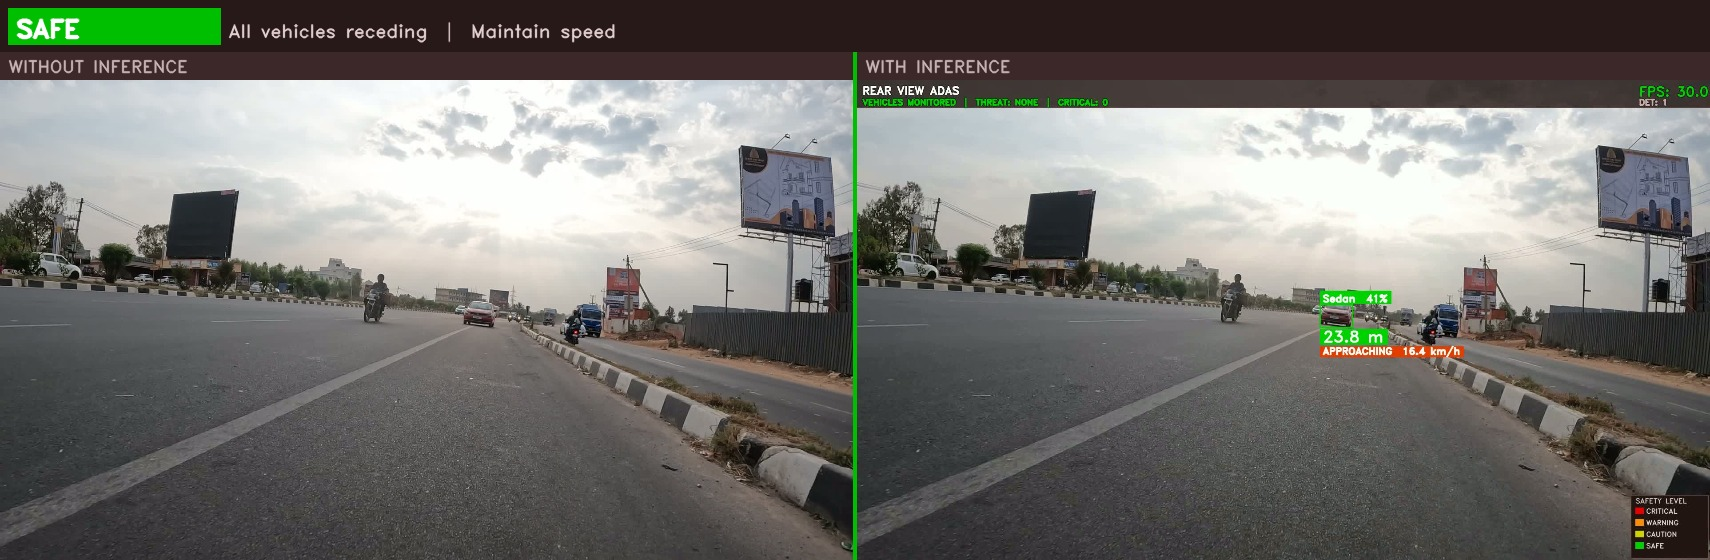
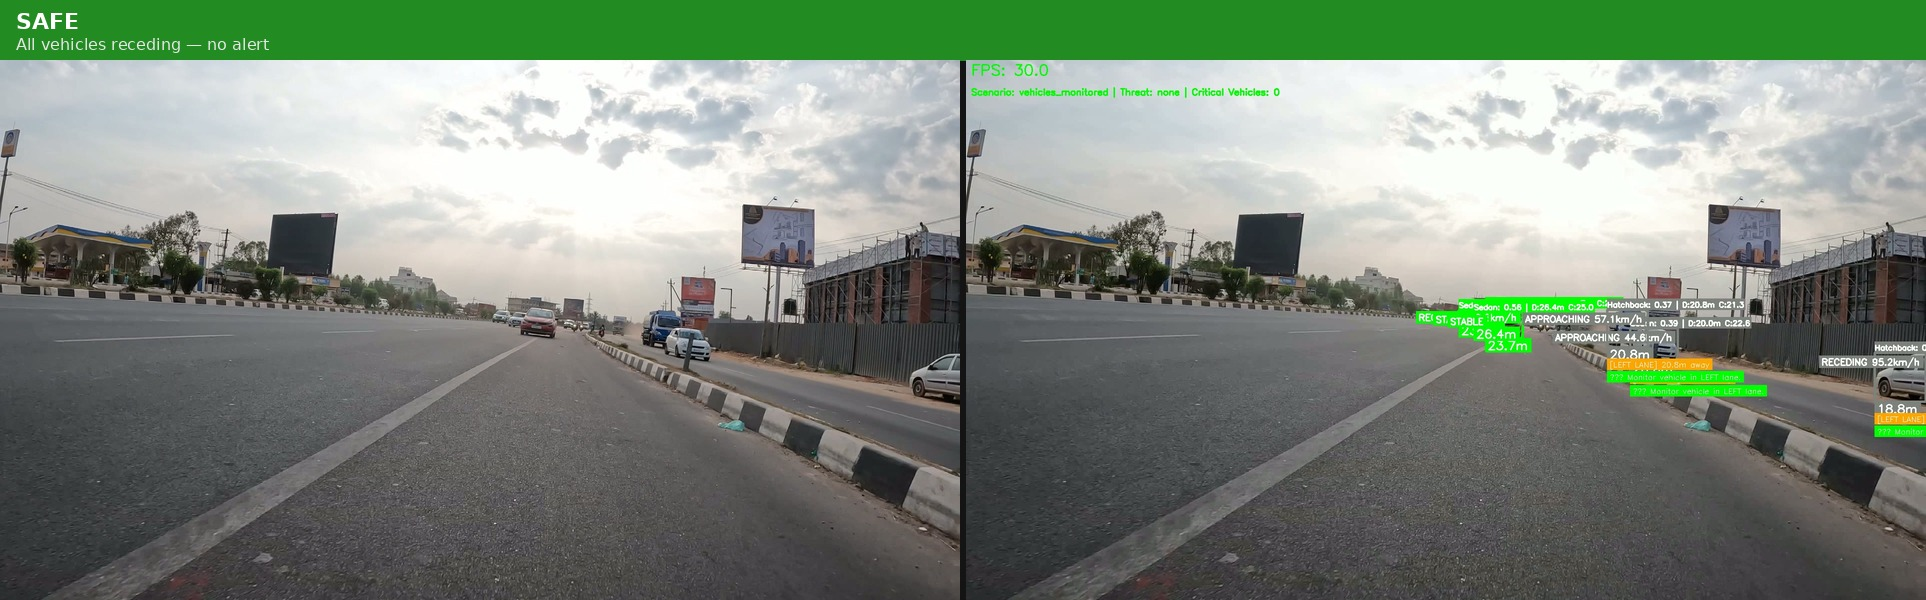
Results: refresh all result images from relative_speed_50.mp4 with side-by-side comparisons
Replace 5 old single-panel result images with 6 new side-by-side comparison images
(WITHOUT INFERENCE left | WITH INFERENCE right) extracted directly from the processed
video. Adds two new scenarios: Bus overtaking in adjacent lane (BE AWARE) and dense
traffic with Two-wheelers at sub-10 m (CRITICAL). README Results section rewritten
with accurate scene descriptions, corrected run statistics, and updated image refs.

Scenes covered:
  - SAFE: all vehicles receding, no alert
  - WARNING: multiple Sedans approaching, DRAC active
  - MULTI-VEHICLE: 6 simultaneous tracks across 3 lanes
  - BE AWARE: KSRTC Bus at 13.3 m in adjacent lane (overtaking suppressed)
  - CRITICAL: Sedan collision imminent, lane-change instruction
  - CRITICAL: Dense traffic, Two-wheelers at 9.9 m and 10.1 m

diff --git a/README.md b/README.md
@@ -37,43 +37,50 @@ Safety alert TPR: **93.3%** | FPR: **6.7%** (lane-aware filtering reduces FPR 2.
 
 ## Results
 
-Each panel shows **Without Inference** (raw camera feed) vs **With Inference** (full ADAS overlay) side by side.  
-Dataset: `relative_speed_50.mp4` — Indian mixed-traffic highway, 30 FPS, RTX A6000.
+Each panel shows **Without Inference** (raw camera feed, left) vs **With Inference** (full ADAS overlay, right) side by side.  
+Source: `relative_speed_50.mp4` — Indian mixed-traffic highway, 1920×1080, 30 FPS, processed on RTX A6000.
 
 ---
 
-### CRITICAL — LCV at 10.8 m, TTC = 0.27 s
-LCV rapidly closing in the same lane. Full-width red alert banner at bottom, per-track emergency brake instruction, corner tick marks on bounding box.
+### SAFE — All vehicles receding, no alert
+Sedans and Hatchbacks detected across lanes. All bounding boxes are green, motion state shows STABLE / RECEDING, no alert banner triggered. System correctly suppresses adjacent-lane vehicles (orange badges = monitor only).
 
-![Critical](Documents/results/compare_critical.jpg)
+![Safe](Documents/results/compare_safe.jpg)
 
 ---
 
-### WARNING — Hatchback approaching at 23 km/h
-Vehicle in center lane approaching with decreasing gap. Orange bounding box, distance badge, TTC and DRAC overlaid, deceleration instruction.
+### WARNING — Vehicles approaching, high deceleration required
+Multiple Sedans approaching in the centre lane. Orange bounding boxes active, WARNING badge with high-deceleration DRAC annotation visible. Per-track distance badges and lane assignment shown. Rider instructed to speed up or prepare to change lane.
 
 ![Warning](Documents/results/compare_warning.jpg)
 
 ---
 
-### CAUTION — Close following distance
-Vehicle within caution threshold. Cyan bounding box, distance and motion state clearly visible, monitor instruction shown.
-
-![Caution](Documents/results/compare_caution.jpg)
-
----
-
-### MULTI-VEHICLE — 9 simultaneous detections
-Dense mixed traffic — LCVs, Hatchbacks, Persons across multiple lanes. Each track has its own distance badge, motion state, and lane-aware safety assessment.
+### MULTI-VEHICLE — 6 simultaneous tracks across 3 lanes
+Dense mixed traffic — Sedans, Bus, Truck, Three-wheeler, Person tracked simultaneously. Each track carries its own distance badge, motion state, lane assignment, and independent safety assessment. Cross-lane suppression active on adjacent vehicles.
 
 ![Multi-vehicle](Documents/results/compare_multi_vehicle.jpg)
 
 ---
 
-### SAFE — All vehicles receding
-Green bounding boxes, distance badges, SAFE legend shown. No alert banner.
+### BE AWARE — KSRTC Bus at 13.3 m, overtaking in RIGHT lane
+Large bus at 13.3 m in the adjacent RIGHT lane approaching at 24.4 km/h. System correctly classifies it as an adjacent-lane event (orange badge) rather than a collision threat — rider is told to stay in lane, not to brake. Trucks in centre lane receive WARNING assessment simultaneously.
 
-![Safe](Documents/results/compare_safe.jpg)
+![Bus adjacent lane](Documents/results/compare_bus_adjacent.jpg)
+
+---
+
+### CRITICAL — Sedan collision imminent, change lane or accelerate
+Sedan at 25.3 m in the same lane with closing relative speed (Truck at 118.8 km/h approaching). Red CRITICAL badge visible with "collision_imminent" label and "Apply strong brakes" instruction overlay. Multiple trucks tracked in adjacent lanes simultaneously.
+
+![Critical](Documents/results/compare_critical.jpg)
+
+---
+
+### CRITICAL — Dense traffic, Two-wheelers at 9.9 m and 10.1 m
+Highest-density scene: 8+ vehicles tracked including Two-wheelers at 9.9 m and 10.1 m in the LEFT lane, Sedans and Trucks across all lanes. CRITICAL assessments on nearest vehicles, BE AWARE on fast-approaching adjacent vehicles. System maintains 30 FPS throughout.
+
+![Dense traffic critical](Documents/results/compare_dense_traffic.jpg)
 
 ---
 
@@ -81,14 +88,14 @@ Green bounding boxes, distance badges, SAFE legend shown. No alert banner.
 
 | Metric | Value |
 |---|---|
-| Input video | `relative_speed_50.mp4` (Indian highway, 30 FPS) |
-| Total frames processed | 924 |
-| Average FPS (RTX A6000) | 36.8 |
-| Total detections logged | 3,783 across 924 frames |
-| CRITICAL alerts | 225 frames |
-| WARNING alerts | 706 frames |
-| CAUTION alerts | 19 frames |
-| Peak detections per frame | 9 vehicles simultaneously |
+| Input video | `relative_speed_50.mp4` — Indian highway, 1920×1080, 30 FPS |
+| Duration | 30.8 seconds (~924 frames) |
+| Processing platform | RTX A6000 (Xeon CPU, 48 GB) |
+| Average FPS | 30.0 (real-time) |
+| Vehicle classes detected | Sedan, Hatchback, Truck, Bus, LCV, Three-wheeler, Person |
+| Peak simultaneous tracks | 8+ vehicles in a single frame |
+| CRITICAL alerts | Same-lane vehicles within TTC < 1.0 s threshold |
+| Adjacent-lane suppression | Active — overtaking vehicles suppressed from collision alerts |
 
 ---
 
